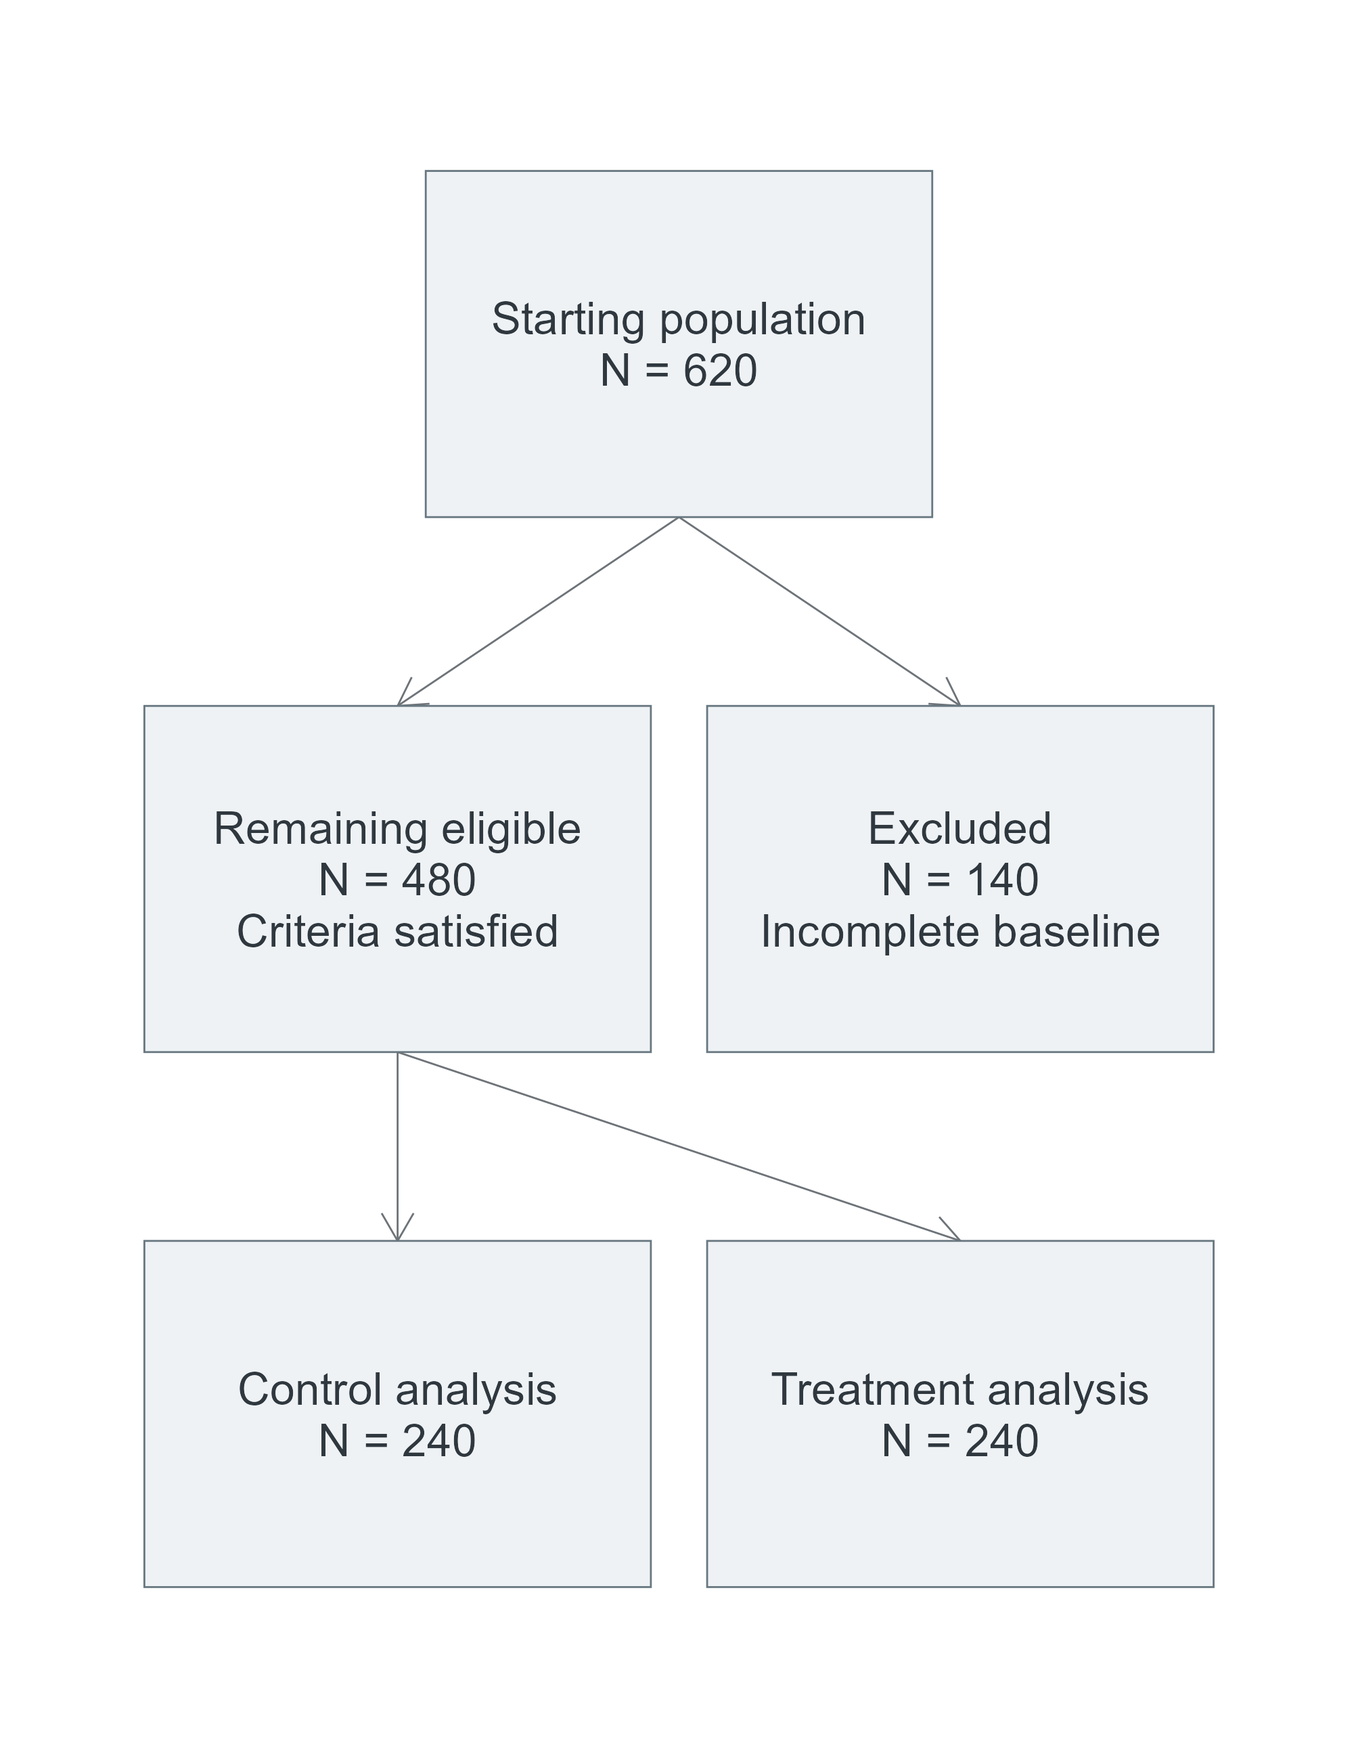
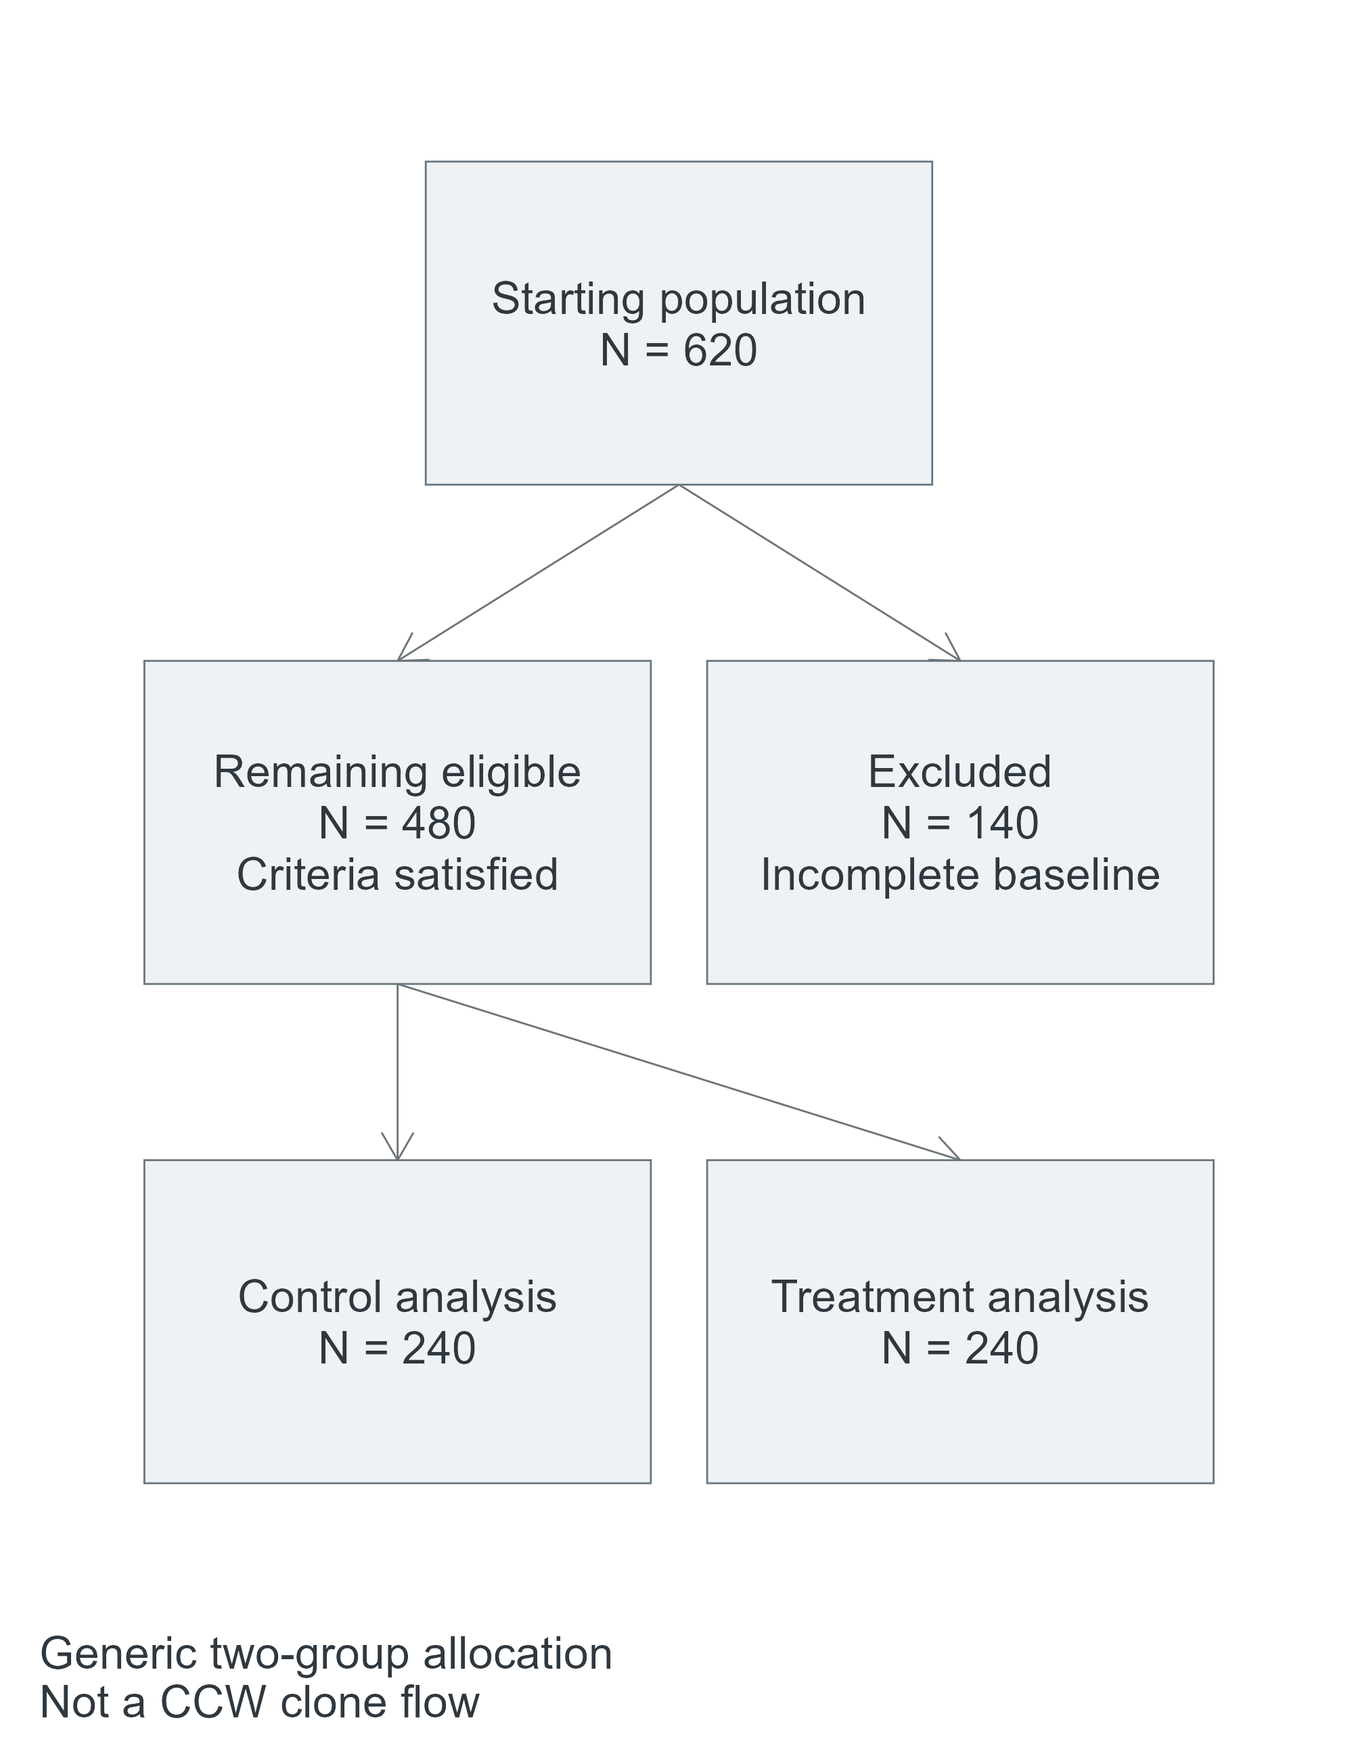
Clarify synthetic figure semantics and prevent terminal symbol overprinting

diff --git a/reports/publication_capability_semantic_qa.md b/reports/publication_capability_semantic_qa.md
@@ -1,0 +1,80 @@
+# Publication capability synthetic semantics
+
+This revision follows the gallery at `c7ac2b06db4f45ce864eb6b1e03df15b89e1e394`.
+It changes synthetic examples and their explanation, plus one reproduced
+timeline symbol-overprinting defect. It does not change an estimator, estimand,
+production registry, CCW Scientific Authority, palette, theme or export contract.
+All examples remain SYNTHETIC_DEMONSTRATION_ONLY, independently authored toy
+inputs, not patient records or reproduced JAR study results.
+
+## Fixture before and after
+
+| Scene / field | Before | Revised meaning |
+| --- | --- | --- |
+| Participant flow | 620 -> 480 / 140 -> 240 / 240, generic meaning implicit | Same counts; GENERIC_PARTICIPANT_FLOW_DEMONSTRATION in fixture/gallery and visible non-CCW caption |
+| Competing timeline, S1 | C1 natural censor at 6; C2 outcome at 8 | One original history: treatment at 2, outcome at 8; C1 artificial censor at 2, C2 outcome at 8 |
+| Competing timeline, S2 | C3 competing event at 9; C4 natural censor at 7 | One original history: no treatment, competing event at 9; C3 contributes to 9, C4 artificial censor at 3 |
+| Natural loss example | Conflicting clone-specific natural loss | Additional synthetic S3: both inherit original loss at 6; C5 contributes to loss at 6, C6 artificial censor at 3 |
+| Research timeline | Original four clone rows and events | Same rows/events, now backed by explicit shared subject source |
+| Risk counts | Caller integers without encoded unit/timing | Same integers; explicit original-subject, immediately-before-t, unweighted synthetic sidecar |
+| Curves / intervals | Supplied points with arithmetic toy bands | Same probability estimates and mathematical bounds; bounds explicitly listed as toy 95% CI inputs, not estimated intervals |
+| Effect annotation | Difference without named outcome/horizon | Survival or CIF, t=12, Treatment-minus-Control; same point contrast and supplied contrast CI |
+| Time labels | Follow-up time | Synthetic time units, including the illustrative 30/60 rescaling |
+
+The participant flow is not a baseline-clone diagram. If all 480 eligible
+subjects were cloned to both strategies, each strategy would begin with 480
+clones. This revision neither replaces the generic flow nor claims those
+clones are represented by its 240/240 split.
+
+In these timelines, natural censor explicitly means original observation loss.
+The constructor itself only checks the provided event labels and bounds.
+Original treatment and terminal events are shared across a subject's clones;
+an earlier artificial censor removes subsequent analysis contribution, without
+changing the original observed history. The displayed toy strategy definitions
+are no initiation by 3 versus initiation by 3. They are fixture assumptions,
+not scientific authority for a real CCW analysis. Same-time treatment and
+artificial censor at 2 are caller-supplied; their vertical separation does not
+specify a general event-priority rule.
+
+## Reproduced public drawing defect
+
+With the old competing fixture, `ggplot_build()` returned endpoint squares at
+(6,4), (8,3), (9,2), (7,1), and terminal-event symbols at the same four positions.
+Thus all four terminal glyphs were overprinted by an unnecessary square.
+The minimal constructor repair suppresses the square when a terminal event
+is supplied at that clone's end; an unmarked end still gets a square. No event
+x/time, lane ordering, shape mapping, CI or statistical value is changed.
+Tests cover both terminal and unmarked ends as well as unchanged event x values.
+
+## Counts, effects and acceptance boundaries
+
+The [API guide](../docs/figures/publication_capability_guide.md) distinguishes
+original subjects, analysis units, clones and weighted risk-set mass. The
+backward-compatible gallery solution is caller metadata beside the image and
+on the supplied count table; no statistical interface or automatic unit
+inference is introduced. The declared toy counts are distinct original subjects
+within disjoint groups, immediately before all events/censors at t. Weighted
+mass must not be rounded into participant counts.
+
+Survival and CIF are independent legal probability sequences, not complements
+of one another. Supplied 95% CI values are display fixtures with no inference
+or coverage claim. Survival at 12 differs by 0.85 - 0.79 = 0.06; CIF at 12
+differs by 0.11 - 0.15 = -0.04. Contrast intervals are independent supplied toy
+inputs, not subtraction of pointwise bands. Difference/null=0, ratio/null=1
+on a linear axis, and interaction P inputs remain explicit. The 30/60 panels
+reuse the toy survival values on rescaled axes, not new study estimates.
+
+The existing five-script suite includes additional assertions for source-history
+coherence, deliberately inconsistent histories, monotonic probabilities, CI
+containment, effect direction/horizon, metadata retention and terminal glyphs.
+The new commit must also pass the unchanged 14 frozen regression checks,
+11 independent checks, 112 native exports and 72 capability exports. Per-HEAD
+execution evidence and actual-render inspection accompany the local review
+package; prior-HEAD results alone do not certify this revision.
+
+New gallery scientific semantics/readability/symbols/counts/CI/time labels/
+forest scales/panel alignment remain subject to researcher component-level
+acceptance. That acceptance is not study-figure publication approval. Every
+export retains `publication_ready=FALSE` and `manual_review=PENDING` until its
+own authorized review. AI-assisted fixture/code/test/documentation work and
+technical inspection are distinct from researcher approval.

diff --git a/docs/figures/publication_capability_guide.md b/docs/figures/publication_capability_guide.md
@@ -14,6 +14,10 @@ Optional `reason` text can describe inclusion/exclusion steps. Edges contain
 to one starting population and acyclic. Counts are supplied, never calculated
 from paper numbers or silently reconciled. The older cohort bar chart remains.
 
+The gallery's 620/480/140/240/240 flow is explicitly a generic two-group
+allocation, not CCW baseline cloning. Its 240/240 counts must not be relabeled
+as clones from all 480 eligible subjects.
+
 ## Research flow and clone/censor timeline
 
 `plot_tte_ccw_timeline(clones, events, research_steps=NULL)` requires clone
@@ -24,7 +28,14 @@ optional `display_label` controls concise row labels. Event records contain
 `natural_censor`, `outcome`, `competing_event`. Treatment/event times are not
 jittered. Coincident events are separated vertically within the same lane.
 Grace shading is limited to each clone's supplied follow-up, while the explicit
-boundary remains visible. Square endpoints mark the supplied follow-up end.
+boundary remains visible. A supplied terminal event marks the follow-up end
+without an overprinted square; squares mark ends without a terminal event.
+The constructor checks event types/times, not cross-clone scientific validity.
+For CCW use, the caller must supply a consistent original subject history:
+actual treatment, observation loss and terminal event originate at subject
+level; clone-specific artificial censoring can end analysis contribution earlier.
+The gallery supplies such an explicit synthetic history, without adopting a
+production CCW protocol or imposing a general same-time event priority.
 
 Optional `research_steps` supplies a generic box/connector process header.
 These stage labels describe the caller's intended process, not methods executed
@@ -47,6 +58,31 @@ must be established by the investigator. Weighted risk-set mass is not an
 integer participant count. `effect_annotation` is literal caller-supplied
 text, displayed outside the data panel; no effect or clinical interpretation
 is derived from the curve. `time_label` allows explicit time units.
+
+The four quantities below are different and must not be relabeled:
+
+| Quantity | Counting meaning |
+| --- | --- |
+| Original subjects | Distinct people contributing to the stated risk set |
+| Analysis units | Distinct units defined by the study, which could be people, admissions or other explicitly defined units |
+| Clones | Strategy-specific replicated analysis records; not a count of distinct people across strategies |
+| Weighted risk-set mass | Sum of weights over an explicitly defined risk set; generally non-integer and not a patient count |
+
+Never round weighted mass into `n_at_risk`. This API requires integer counts,
+but integer validation alone cannot establish the unit (a weighted mass could
+coincidentally be an integer). A real CCW caption/legend or caller metadata
+must identify the unit, strategy-specific denominator, time unit, whether
+counts are just before or after t, and the ordering of same-time events/censors.
+
+No statistical interface change is required for the current gallery. The
+minimal backward-compatible solution is an explicit caller sidecar, attached
+as `attr(number_at_risk, "risk_count_metadata")` and/or saved beside the figure.
+The single-curve wrapper retains the supplied table attribute; it does not
+validate or automatically print this metadata, and composers should be delivered
+with the same sidecar/caption. The gallery defines distinct synthetic original
+subjects just before all events/censors at t, in synthetic time units. A future
+named caption/metadata argument could be considered separately; none is added
+here. Real-study conventions must come from that study's approved definition.
 
 ## Outcome panels
 
@@ -93,6 +129,14 @@ benchmark cohort. The supplied CIF example is independent of the survival
 example, not a 1-KM calculation with competing events censored. The full
 72-output matrix and 36 CVD/grayscale previews stay
 under ignored `output/publication_capability/`; selected PNGs document the APIs.
+
+Toy 95% CI bounds are supplied explicitly for display, with no estimated
+coverage claim. Curve ribbons connect the supplied pointwise bounds; the effect
+contrast CI is a separate supplied fixture, not inferred by subtracting bands.
+The annotations identify survival/CIF, Treatment-minus-Control difference and
+t=12. The 30/60 panel examples rescale time only; their probabilities/bounds
+are reused toy values, not independent estimates. Difference forests use null=0;
+ratio forests use null=1 on a linear ratio axis. Interaction P is literal input.
 
 ```text
 Rscript tests/test_publication_capabilities.R

diff --git a/figure_gallery/publication_capability/README.md b/figure_gallery/publication_capability/README.md
@@ -5,6 +5,45 @@ interaction values and subgroup labels are original toy inputs supplied to
 visualization utilities. The examples are independent, not an estimated study.
 No benchmark patient data, numerical results, artwork, icons or code are used.
 
+## Scientific meaning of the demonstrations
+
+The flowchart is **GENERIC_PARTICIPANT_FLOW_DEMONSTRATION**: 620 starting
+subjects, 140 excluded, and 480 remaining subjects split into disjoint groups
+of 240/240. It is not a CCW baseline-cloning diagram. Cloning all 480 subjects
+to two strategies would instead create 480 initial clones per strategy; that
+different diagram is not claimed or substituted here.
+
+The timeline fixtures now share one explicit `original_subjects` table.
+S1 initiates treatment at t=2 and has an outcome at t=8; S2 has no initiation
+and a competing event at t=9; S3 has no initiation and natural loss to follow-up
+at t=6. Both clones inherit the same original history. The toy no-initiation
+clone of S1 is artificially censored at 2; the toy initiation-by-3 clones of
+S2/S3 are artificially censored at 3. Their later original terminal event is
+therefore not displayed as an analysis contribution. S3 appears only in the
+competing-event scene. These toy rules do not adopt a real CCW protocol.
+All time axes use synthetic time units. The same-time treatment/censor marks
+at t=2 do not establish a general clinical event-priority rule.
+
+Natural censor means original subject observation loss in these fixtures,
+not a clone-specific strategy deviation. Terminal event symbols replace the
+redundant endpoint square; squares remain for ends without a supplied terminal
+event. The [semantic QA record](../../reports/publication_capability_semantic_qa.md)
+preserves the old/new fixture difference and the reproduced symbol overlap.
+
+Risk tables are an independent non-CCW toy example: distinct original subjects
+within each of two disjoint groups, immediately before t, before all outcome,
+competing and censor events at t. The `risk_count_metadata` sidecar records
+this convention. Counts are neither clone counts nor weighted risk-set mass,
+and are not calculated from the schematic timeline or supplied curves.
+
+Survival and CIF are separate synthetic inputs; CIF is not 1-KM. Their
+annotations name the measure, difference scale, Treatment-minus-Control
+direction and t=12 horizon. All displayed 95% CI bounds are explicit toy
+caller inputs, not fitted confidence intervals or demonstrated coverage.
+Forest P interaction values are also supplied, not inferred from CI overlap.
+The 30/60 panel horizons only rescale the same synthetic survival time axis;
+they are not independently estimated clinical outcomes.
+
 Nine selected documentation PNGs are retained here. Flowcharts, individual
 curves and forests use 85 mm; timelines and multi-panel figures use 178 mm.
 The complete nine-case, two-width, four-format matrix (72 files) is rebuilt by
@@ -17,9 +56,9 @@ checked separately; dense forests stack vertically at that width.
 
 | Information architecture | Selected original demonstration |
 | --- | --- |
-| Participant flow with exclusions, reason, remaining N and branches | ![Synthetic participant flow](png/participant_flowchart.png) |
+| Generic two-group participant flow; not CCW clone counts | ![Generic synthetic participant flow](png/participant_flowchart.png) |
 | Research stages plus assigned clone/adherence timeline | ![Synthetic research timeline](png/research_ccw_timeline.png) |
-| Natural censor, outcome and competing events | ![Synthetic competing-event timeline](png/competing_event_timeline.png) |
+| Coherent subject histories with natural/artificial censor and terminal events | ![Synthetic competing-event timeline](png/competing_event_timeline.png) |
 | Supplied cumulative incidence, bands, annotation and risk counts | ![Synthetic cumulative incidence](png/cumulative_incidence_risk_table.png) |
 | Supplied survival, bands, annotation and risk counts | ![Synthetic survival](png/survival_risk_table.png) |
 | Hierarchical difference-scale forest with text/N/interaction | ![Synthetic difference forest](png/subgroup_difference_forest.png) |
@@ -32,3 +71,7 @@ schemas and limits. `publication_ready=FALSE` and `manual_review=PENDING`
 remain unchanged for every export. Machine/AI-assisted review does not approve
 a real study figure. **Visualization support does not establish CCW production
 readiness.**
+
+Researcher acceptance of this gallery is software-component review. It does
+not set a real study figure to `publication_ready=TRUE`; each study's inputs,
+scientific meaning, final layout and figure QC require their own review.

diff --git a/reports/publication_capability_visual_and_accessibility_review.md b/reports/publication_capability_visual_and_accessibility_review.md
@@ -12,8 +12,8 @@ review, not researcher approval of the new figures or a real study.
 | Canvas | Native whole-point PDF/SVG quantization: 84.67/177.80 mm for requested 85/178 mm; error less than 1 pt. Requested heights are recorded in the manifest. |
 | Fonts | Extractable actual PDF text minimum 7 pt. SVG glyphs are outlines, visually inspected rather than asserted as extractable text. |
 | Text/page clipping | All 18 PDF text-bounding checks report zero outside-page text; actual PDF/SVG renders show no clipped synthetic labels/counts/CI text. This does not certify arbitrary future long labels or dense real datasets. |
-| Flow / timelines | Boxes/connectors, exclusions/branches/counts, research stages, clone/strategy lanes, event shapes, grace boundaries and endpoints visible. Tied events are vertically separated without changing times. |
-| Risk tables | Raw counts preserved; endpoint alignment prevents left-row-label collision and last-count clipping; curve/table plotting widths aligned. Row labels have a visible margin from counts. |
+| Flow / timelines | Boxes/connectors, exclusions/branches/counts, research stages, clone/strategy lanes, event shapes, grace boundaries and endpoints visible. Tied events are vertically separated without changing times. Coherent original subject histories underpin the timelines; terminal glyphs no longer have overprinted endpoint squares. |
+| Risk tables | Raw counts preserved; caller sidecar explicitly identifies unweighted original-subject counts just before t; endpoint alignment prevents left-row-label collision and last-count clipping; curve/table plotting widths aligned. Row labels have a visible margin from counts. |
 | Outcome panels | Strategy mapping and single legend consistent. Panel letters visible. Optional shared x range tested; example horizons are caller-supplied. |
 | Forests | Neutral difference/ratio null lines, CIs, hierarchy, indentation, estimate/CI/N/interaction text visible. Shared rows and fonts; restrained panel gutter; dense 85-mm assembly stacks vertically. |
 | CI ribbons / reference lines | Ribbons remain visible below curves; reference lines remain visible in grayscale/CVD previews. No uncertainty or comparison is selected by significance. |
@@ -39,3 +39,5 @@ Evidence: [actual file checks](publication_capability_export_validation.csv),
 `publication_ready=FALSE`; `manual_review=PENDING` for all new QC rows.
 The researcher's earlier 14-figure cbc4424 PASS applies to the original style
 candidate only and is not reused as approval of this new capability gallery.
+
+Semantic revision: see the [fixture before/after and symbol defect record](publication_capability_semantic_qa.md). The generic flow is visibly distinguished from CCW cloning; annotation outcome/contrast/horizon and toy time units are explicit. A precommit 85-mm multi-panel label exceeded the page by 0.49 pt; shortening only the fixture label to `Toy time units` resolved the failure without shrinking fonts or relaxing checks. The regenerated 72-file inspection passed. Researcher acceptance remains pending for the revised HEAD.

diff --git a/reports/publication_capability_final_external_surface_audit.md b/reports/publication_capability_final_external_surface_audit.md
@@ -1,17 +1,17 @@
 # Publication capability final external-surface audit
 
-Date: 2026-10-15. Scope: 30 current added/modified v1.2 PR files (21 text/source
+Date: 2026-10-15; semantic revision. Scope: 31 current added/modified v1.2 PR files (22 text/source
 files and nine documentation PNGs), plus the 72 actual native exports available
 in the local ignored output matrix. The nine documentation PNGs are byte-identical
-copies of nine exported PNGs, counted once: 93 unique delivered files.
-The selected PNGs total 1,748,287 bytes. Full exports and simulated previews
+copies of nine exported PNGs, counted once: 94 unique delivered files.
+The selected PNGs total 1,824,955 bytes. Full exports and simulated previews
 are not committed to Git. The unchanged PR #2 scope has its own bounded
 [60-file audit](pr2_final_external_surface_audit.md); it is not double-counted here.
 
 ```text
 FINAL_EXTERNAL_SURFACE_AUDIT
-FILES_CHECKED = 93
-FILES_TOTAL = 93
+FILES_CHECKED = 94
+FILES_TOTAL = 94
 UNINTENDED_TOOL_OR_TEMPLATE_LABELS = NONE
 IDENTITY_METADATA_REVIEW = DESCRIPTION Authors@R xuankun zheng matches existing CITATION.cff; reviewed and preserved; PDFs have no Author field
 NORMAL_SOFTWARE_METADATA = PDF Creator R / Producer R 4.5.1 / Title R Graphics Output / native timestamps; PNG/TIFF resolution and TIFF LZW tags
